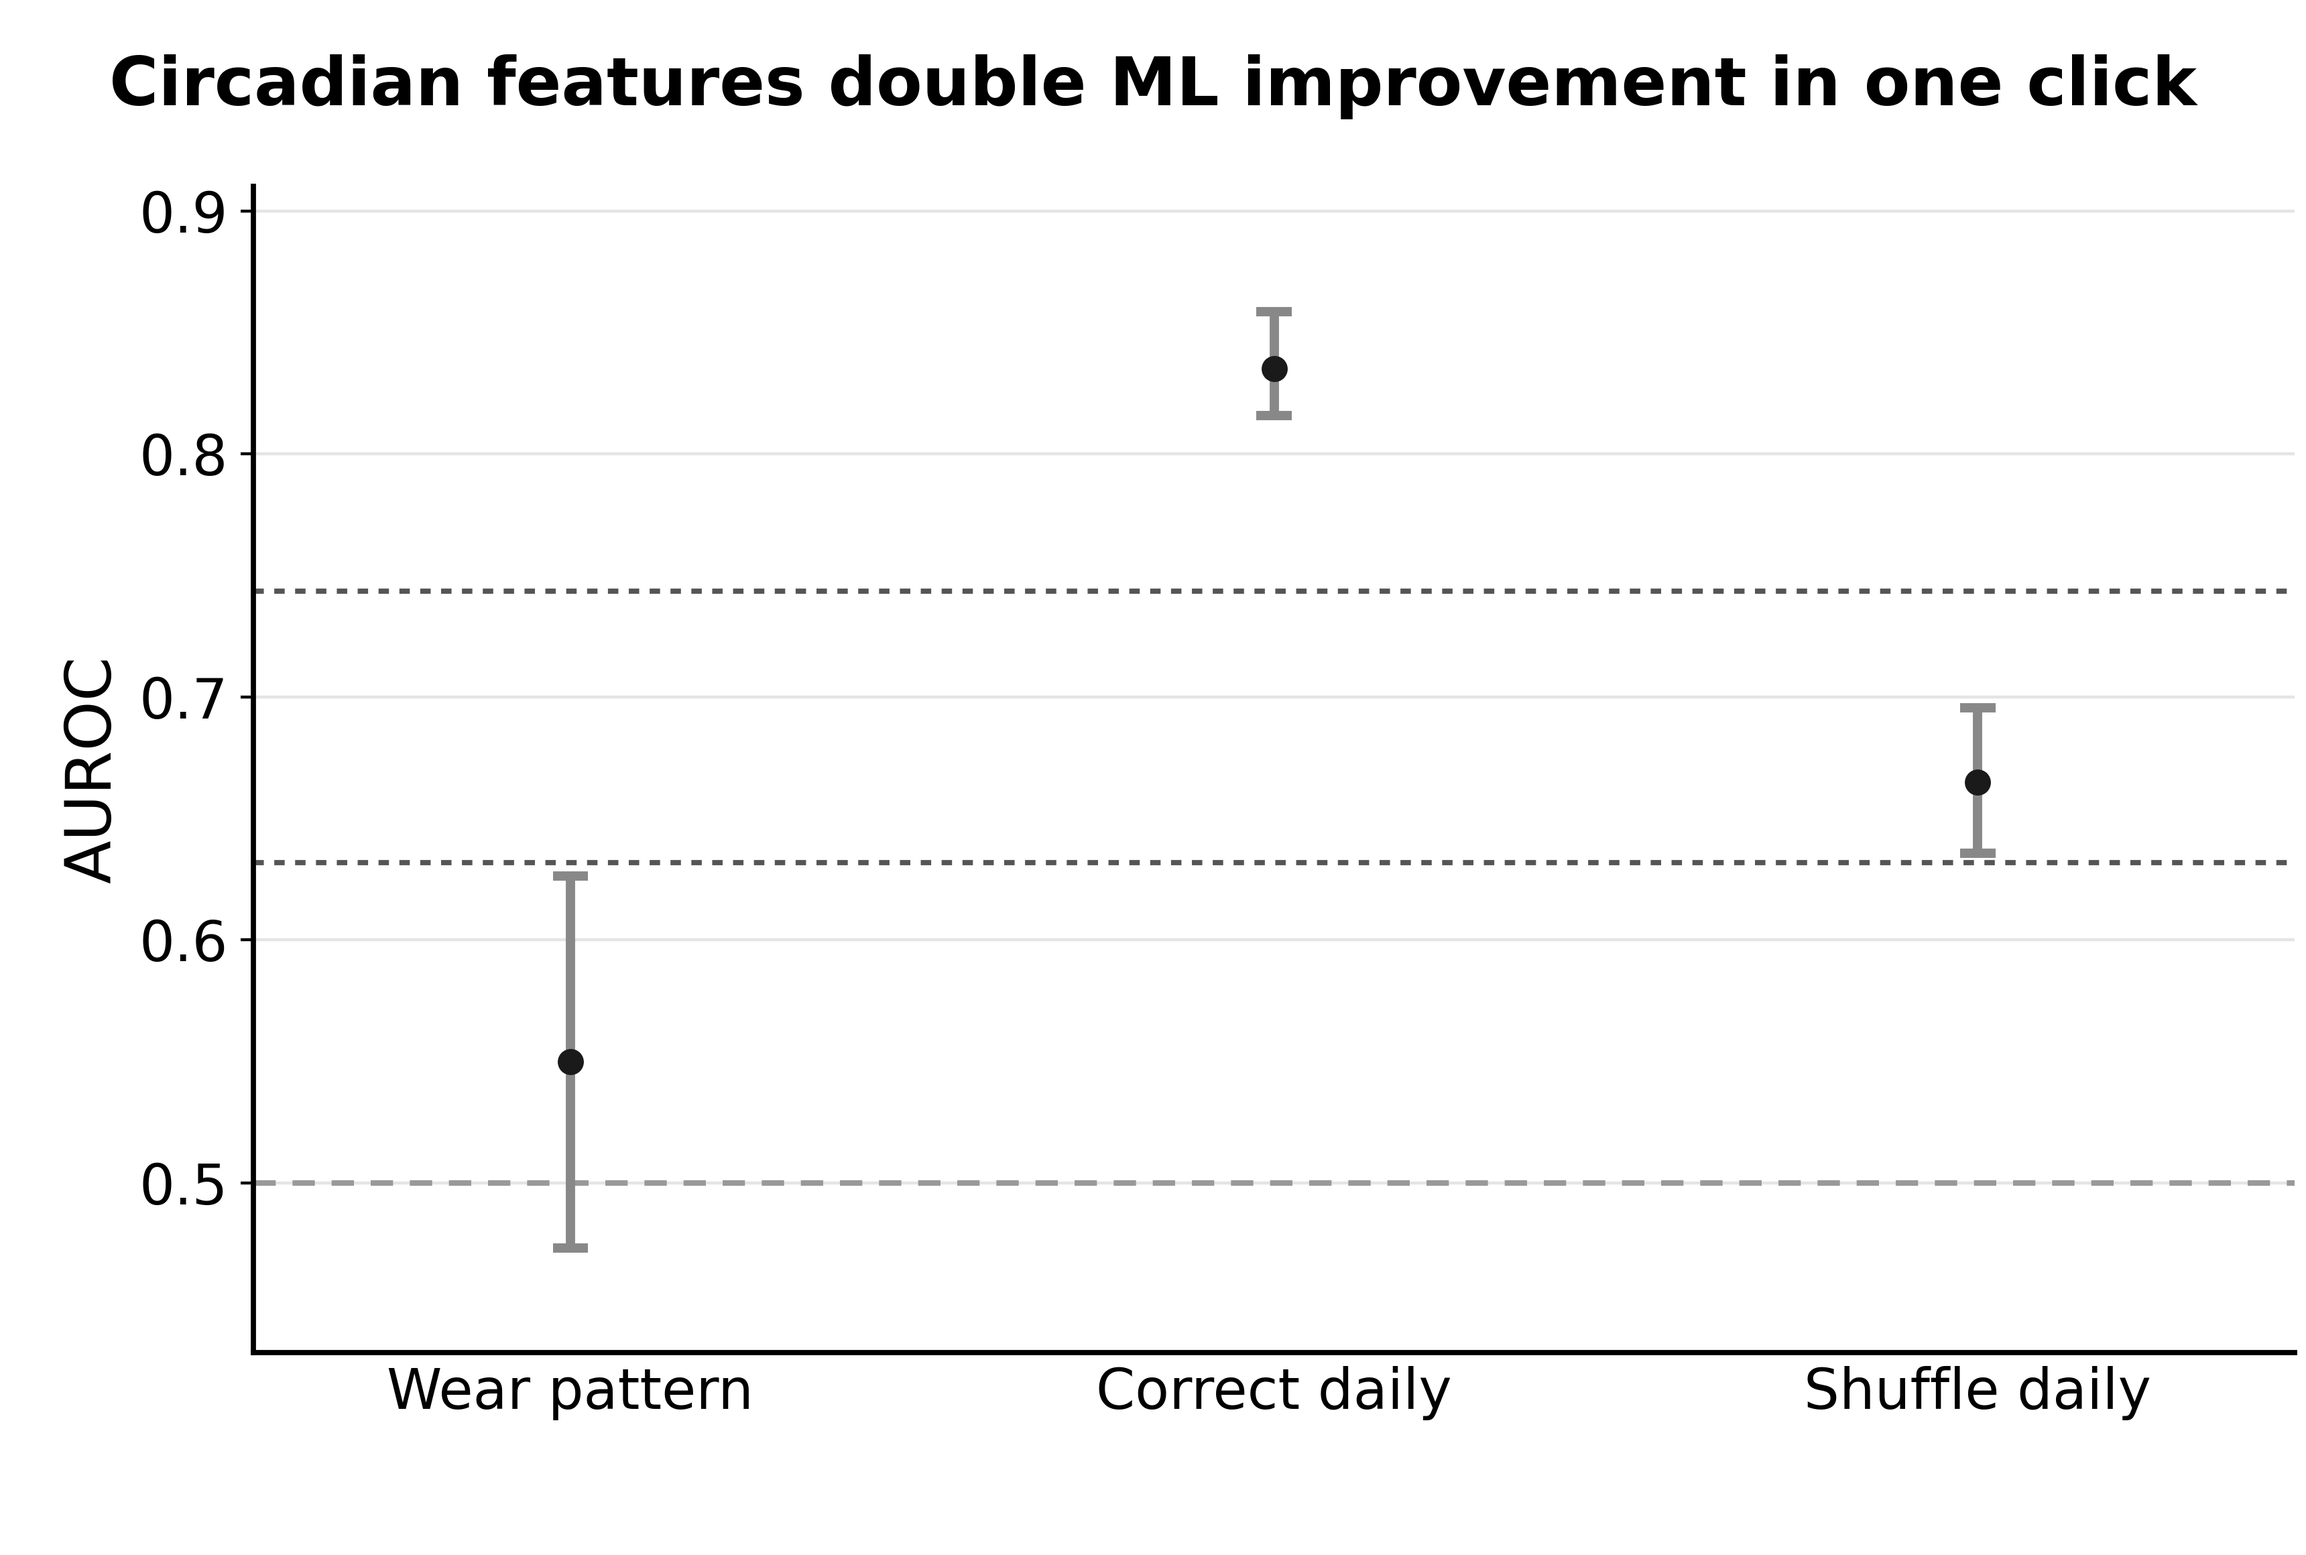
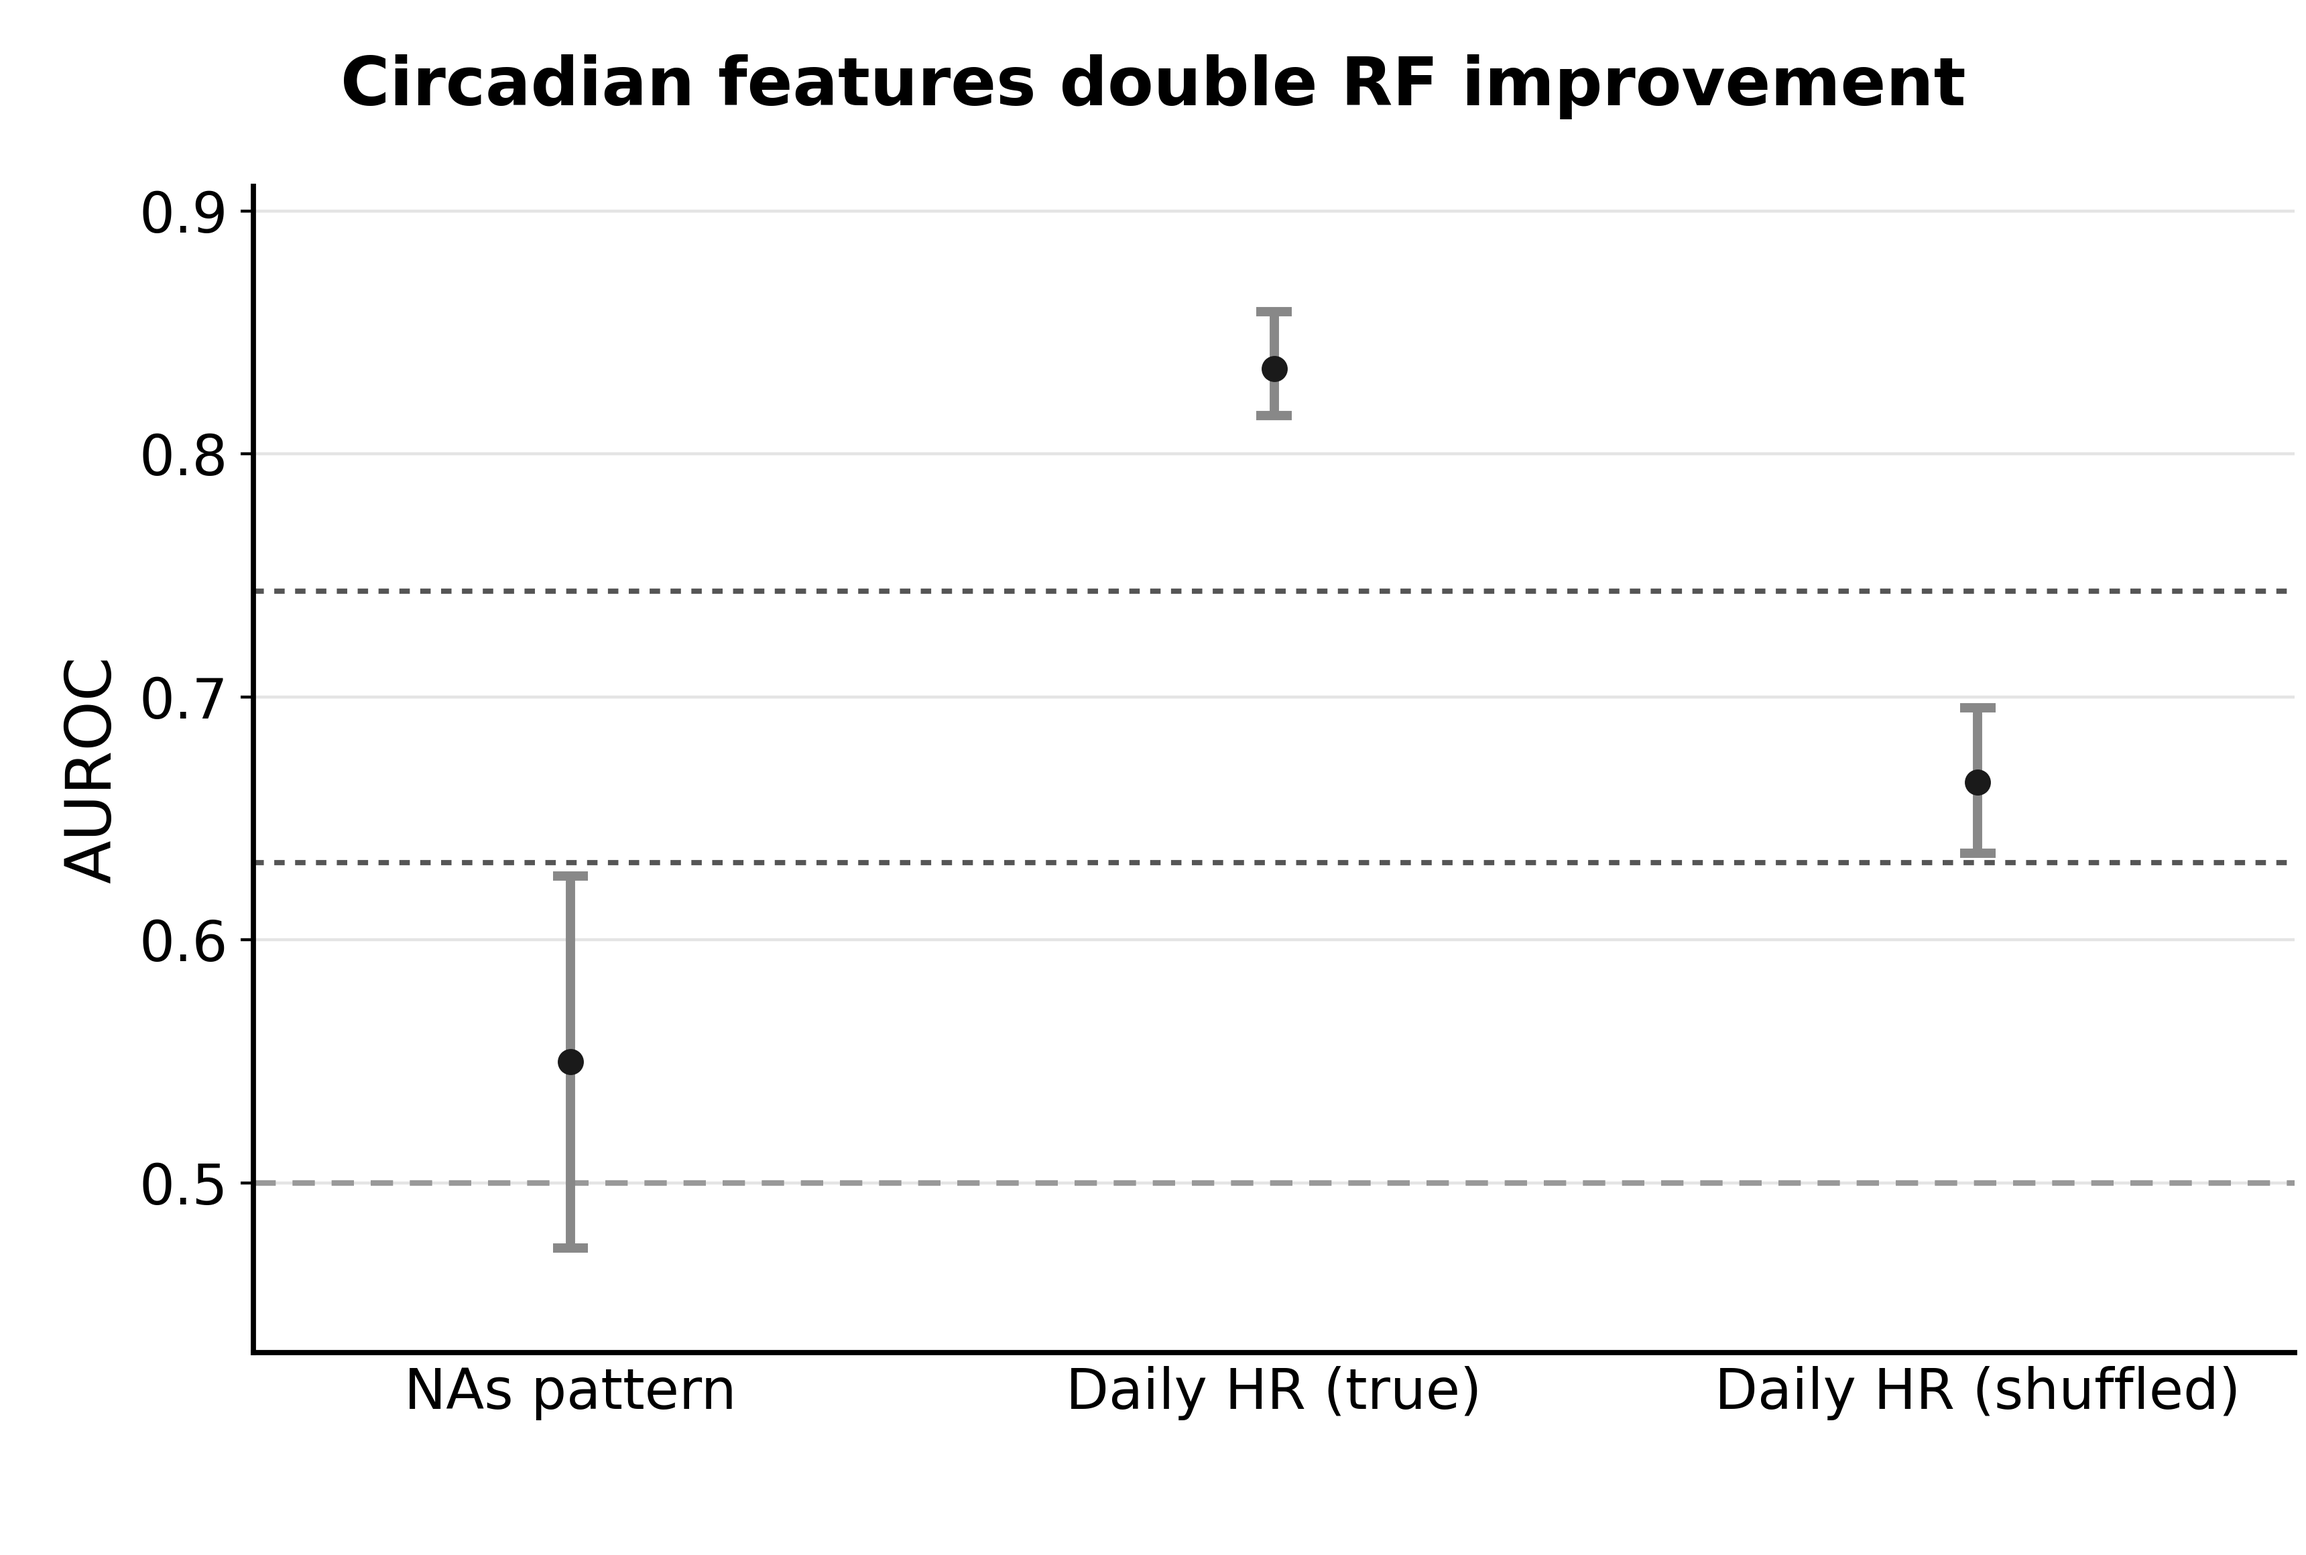
minor fig update

diff --git a/figs_ppt/exp_garmin_temporal.py b/figs_ppt/exp_garmin_temporal.py
@@ -61,9 +61,9 @@ def main():
     default_garmin, best = _garmin_refs()
 
     points = [
-        ("Wear pattern", wear_mu, wear_lo, wear_hi),
-        ("Correct daily", mr_med,   mr_lo,   mr_hi),
-        ("Shuffle daily", shuf_med, shuf_lo, shuf_hi),
+        ("NAs pattern", wear_mu, wear_lo, wear_hi),
+        ("Daily HR (true)", mr_med,   mr_lo,   mr_hi),
+        ("Daily HR (shuffled)", shuf_med, shuf_lo, shuf_hi),
     ]
 
     fig, ax = plt.subplots(figsize=(8.6, 5.8))
@@ -101,7 +101,7 @@ def main():
     ax.spines["right"].set_visible(False)
     ax.tick_params(axis="x", length=0)
 
-    fig.suptitle("Circadian features double ML improvement in one click",
+    fig.suptitle("Circadian features double RF improvement",
                  fontsize=18, fontweight="bold", y=0.965)
 
     fig.savefig(HERE / "exp_garmin_temporal.png", dpi=400, facecolor="white")
